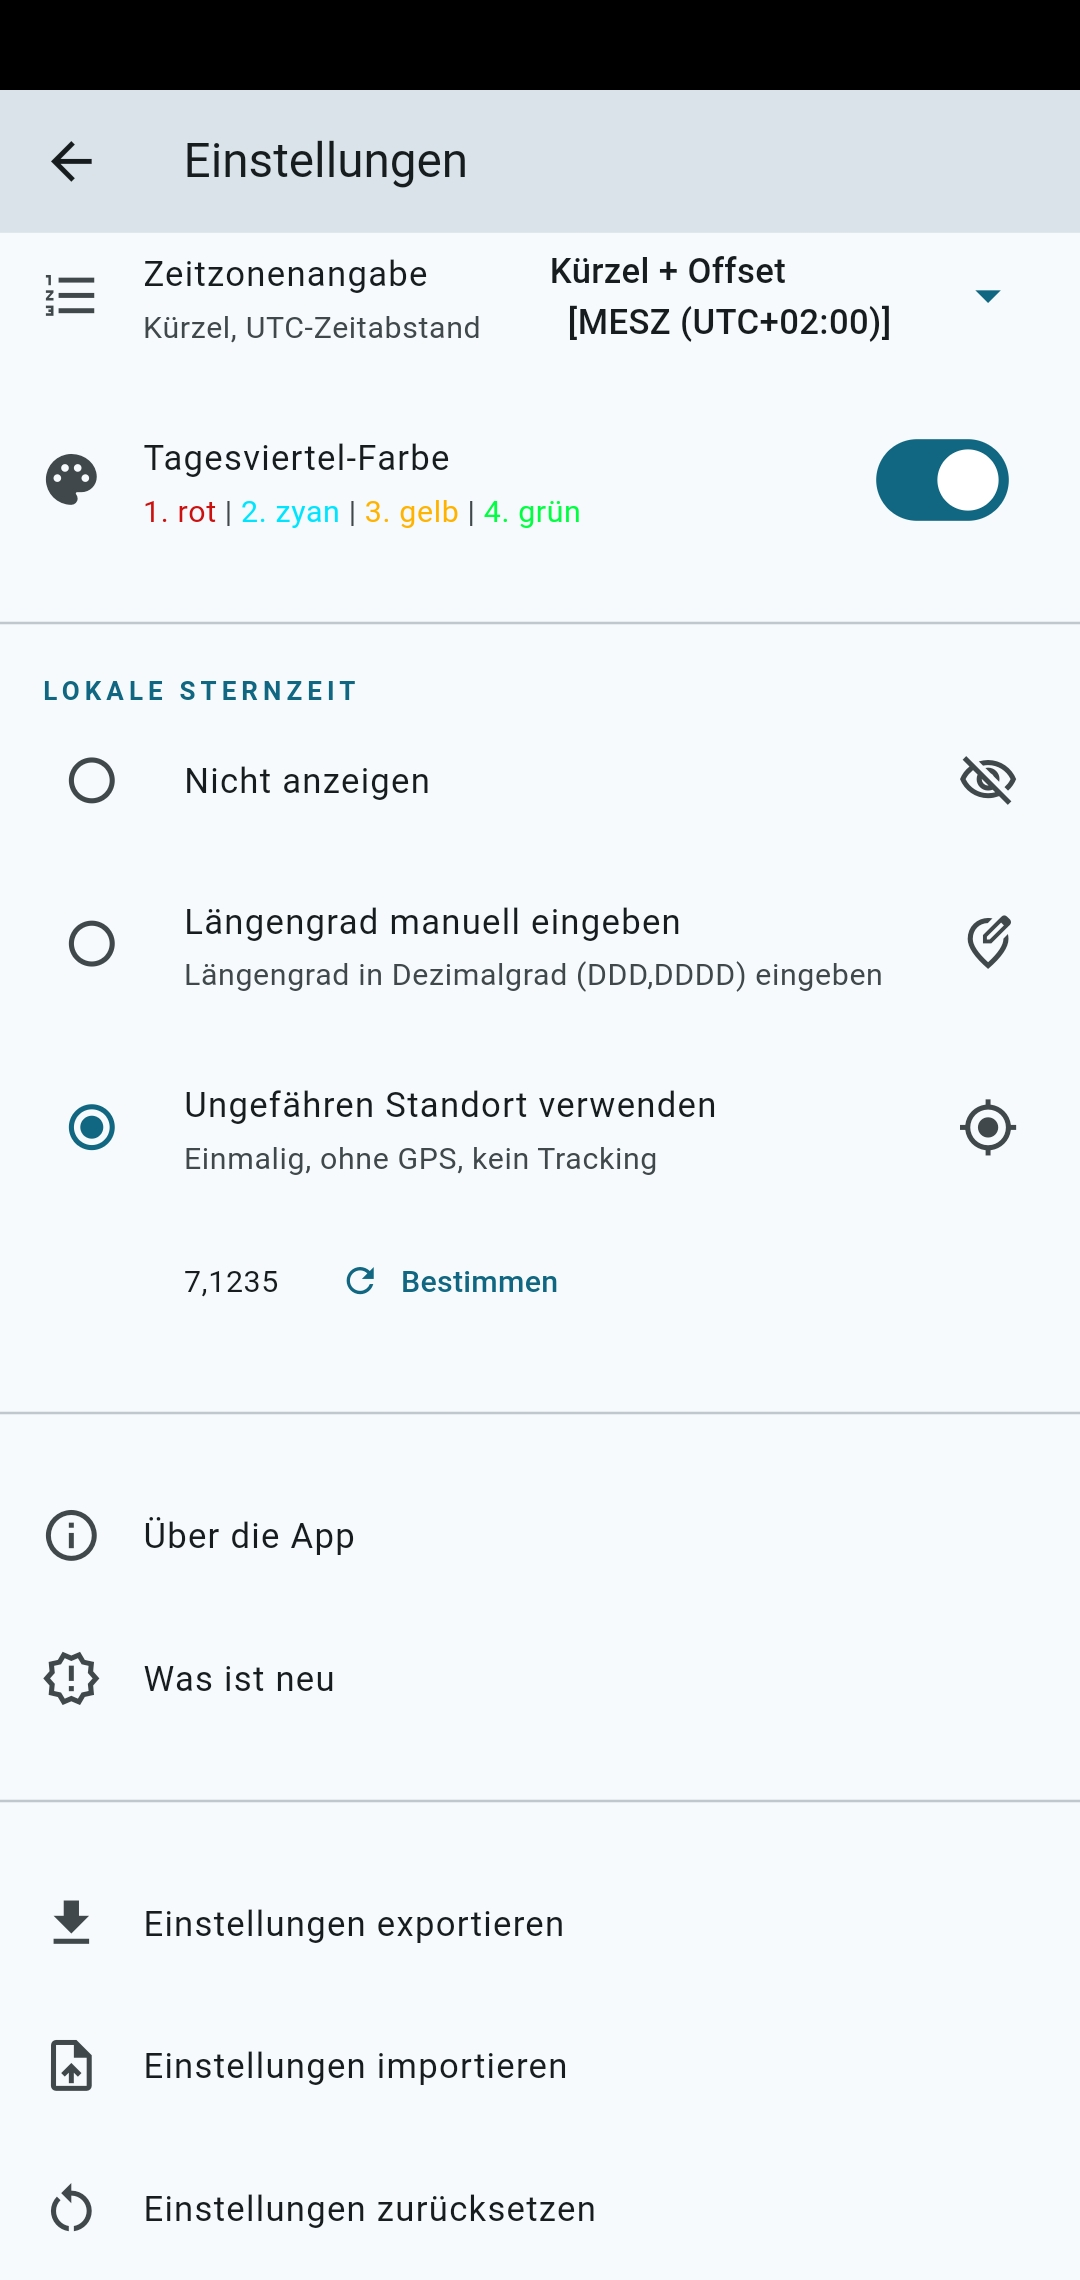
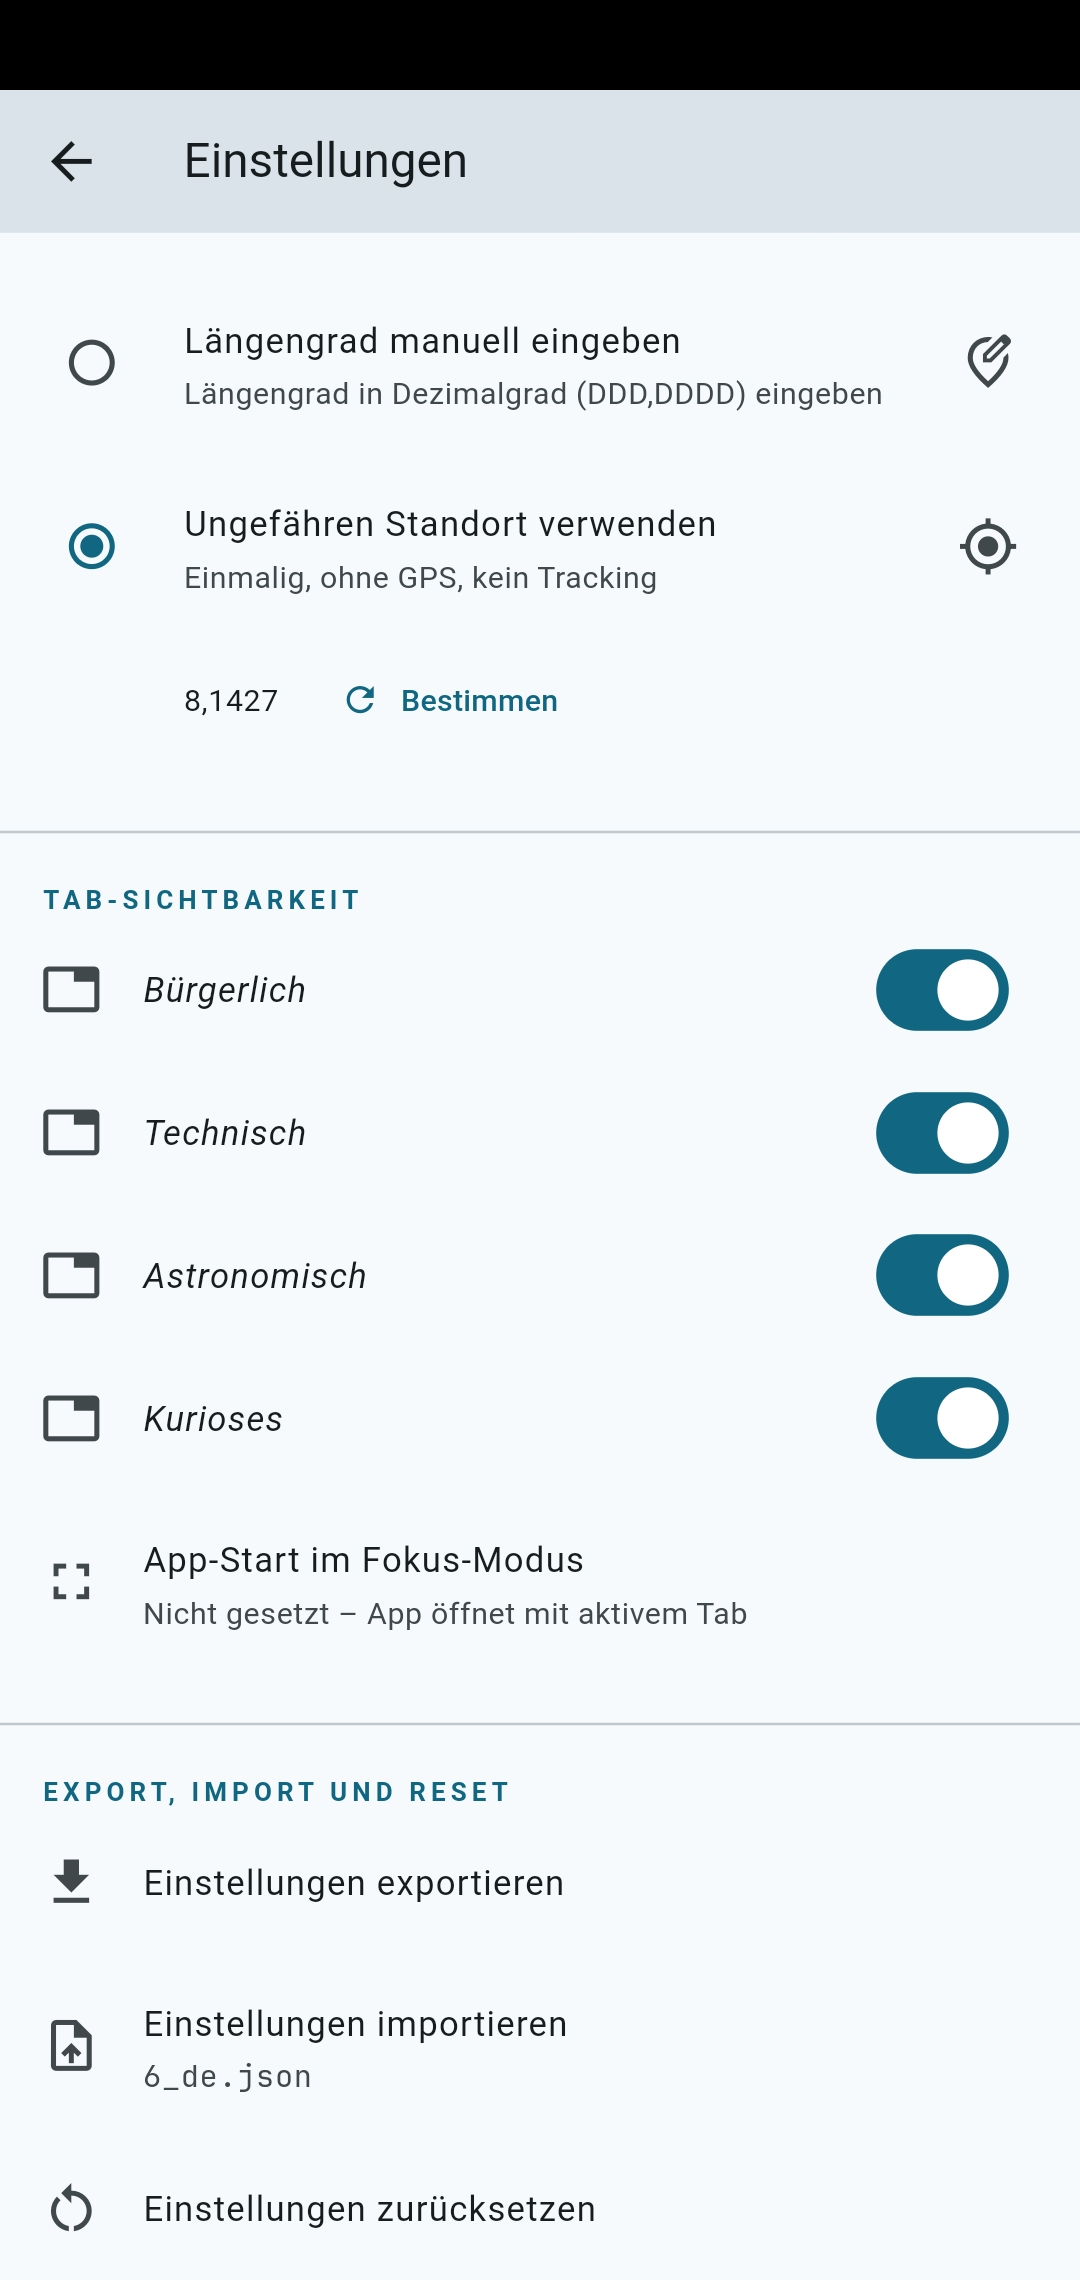
Release 1.5.0

diff --git a/README.md b/README.md
@@ -24,14 +24,16 @@ also happen to spell out **E**legant **p**resentation **o**f
 ## Features
 
 ### Time systems
-- **Civil** – date, time, day second, day percent for any timezone
-- **Technical** – Unix time, TAI, GPS time
-- **Astronomical** – GMST, LMST, Julian Date, Modified Julian Date (MJD), MJD2000
+- **Civil** – date, time, day second, day percent, seven-segment clock for any timezone
+- **Technical** – Unix time, International Atomic Time (TAI), GPS time
+- **Astronomical** – Greenwich and Local Mean Sidereal Time (GMST, LMST), 
+Julian Date (JD), Modified Julian Date (MJD), MJD2000
 - **Curiosities** – decimal time, Swatch Internet Time, New Earth Time, Doomsday Clock,
-seven-segment and 3 binary clocks[^1], octal time[^1] and hexadecimal time[^1]
+3 binary clocks[^1], octal time[^1] and hexadecimal time[^1]
 
 ### Configurable display
-- Fully customizable tabs (*Watchlist*) — any values from any category, in any order, plus custom tab labels
+- Fully customizable tabs — any values from any category, in any order, plus custom tab labels
+- Built-in tab visibility toggles in Settings; hidden tabs can be restored to their original position
 - Flexible timezone search (city, country, timezone name or abbreviation, UTC offset)
 - Optionally force standard or summer time for zoned time values all year round
 - 7-day advance clock change notice, display upcoming clock changes in the next few years
@@ -48,14 +50,13 @@ seven-segment and 3 binary clocks[^1], octal time[^1] and hexadecimal time[^1]
 ### Design
 - Night mode with red-on-black display — preserves dark adaptation for stargazing
 - Light, dark, and system themes
-- Full-screen toggle (double-tap on the app's name in the top-left corner)
+- Full-screen toggle (double-tap on the app's name or logo icon in the top-left corner)
 - Focus mode: double-tap any value for full-screen, always-on display; adjustable brightness and color
 - Burn-in protection for Focus screen through regular pixel shift (esp. for newer Android devices)
 - Optionally start the app in Focus mode
 - Export, import, and reset all preferences (cross-platform, with automatic backup on reset)
 - Available in English and German
-- Android widgets planned
-- Not yet: conversions between time systems
+- Android widgets and value conversion between time systems: planned for future releases
 
 ### Privacy & permissions
 - **No ads. No notifications. No tracking. No analytics. No network requests.**

diff --git a/CHANGELOG.md b/CHANGELOG.md
@@ -2,9 +2,14 @@
 
 ## [Unreleased]
 
+---
+
+## [1.5.0] - 2026-09-12
+
 ### Added
 - new Curiosities time value types: decimal time, octal time, hexadecimal time, New Earth Time (NET)
-- all tabs now fully configurable (except rename for builtins), builtin tabs can be (un)hidden
+- all tabs now fully configurable (except rename for built-ins), built-in tabs can be hidden
+- tab visibility toggles in Settings; hidden built-in tabs can be restored to their original position
 - new popup menu for Settings, About and What's New
 - option to start the app in Focus mode
 - burn-in protection for Focus screen through regular pixel shift (esp. for newer Android devices)
@@ -13,7 +18,8 @@
 
 ### Changed
 - LMST no longer shown dynamically based on your longitude, needs to be (re)added explicitly
-- JSON config format, with backwards compatibility maintained (cf. [config manual](https://github.com/RealNoitasinagro/epoch/blob/main/example_configs/CONFIG_MANUAL.md))
+- JSON config format, with backwards compatibility maintained (cf. [config manual](https://github.com/RealNoitasinagro/epoch/blob/main/example_configs/CONFIG_MANUAL.md));
+keys renamed for clarity: `lmst_lon` → `lmst_longitude`, `zone_display` → `zone_display_mode`
 - more informative date and time format subtitles and improved layout in Settings
 - binaryClockString now allows to turn seconds off (on tabs and Focus screen)
 - improved copy-to-clipboard: long-press for value only, without label
